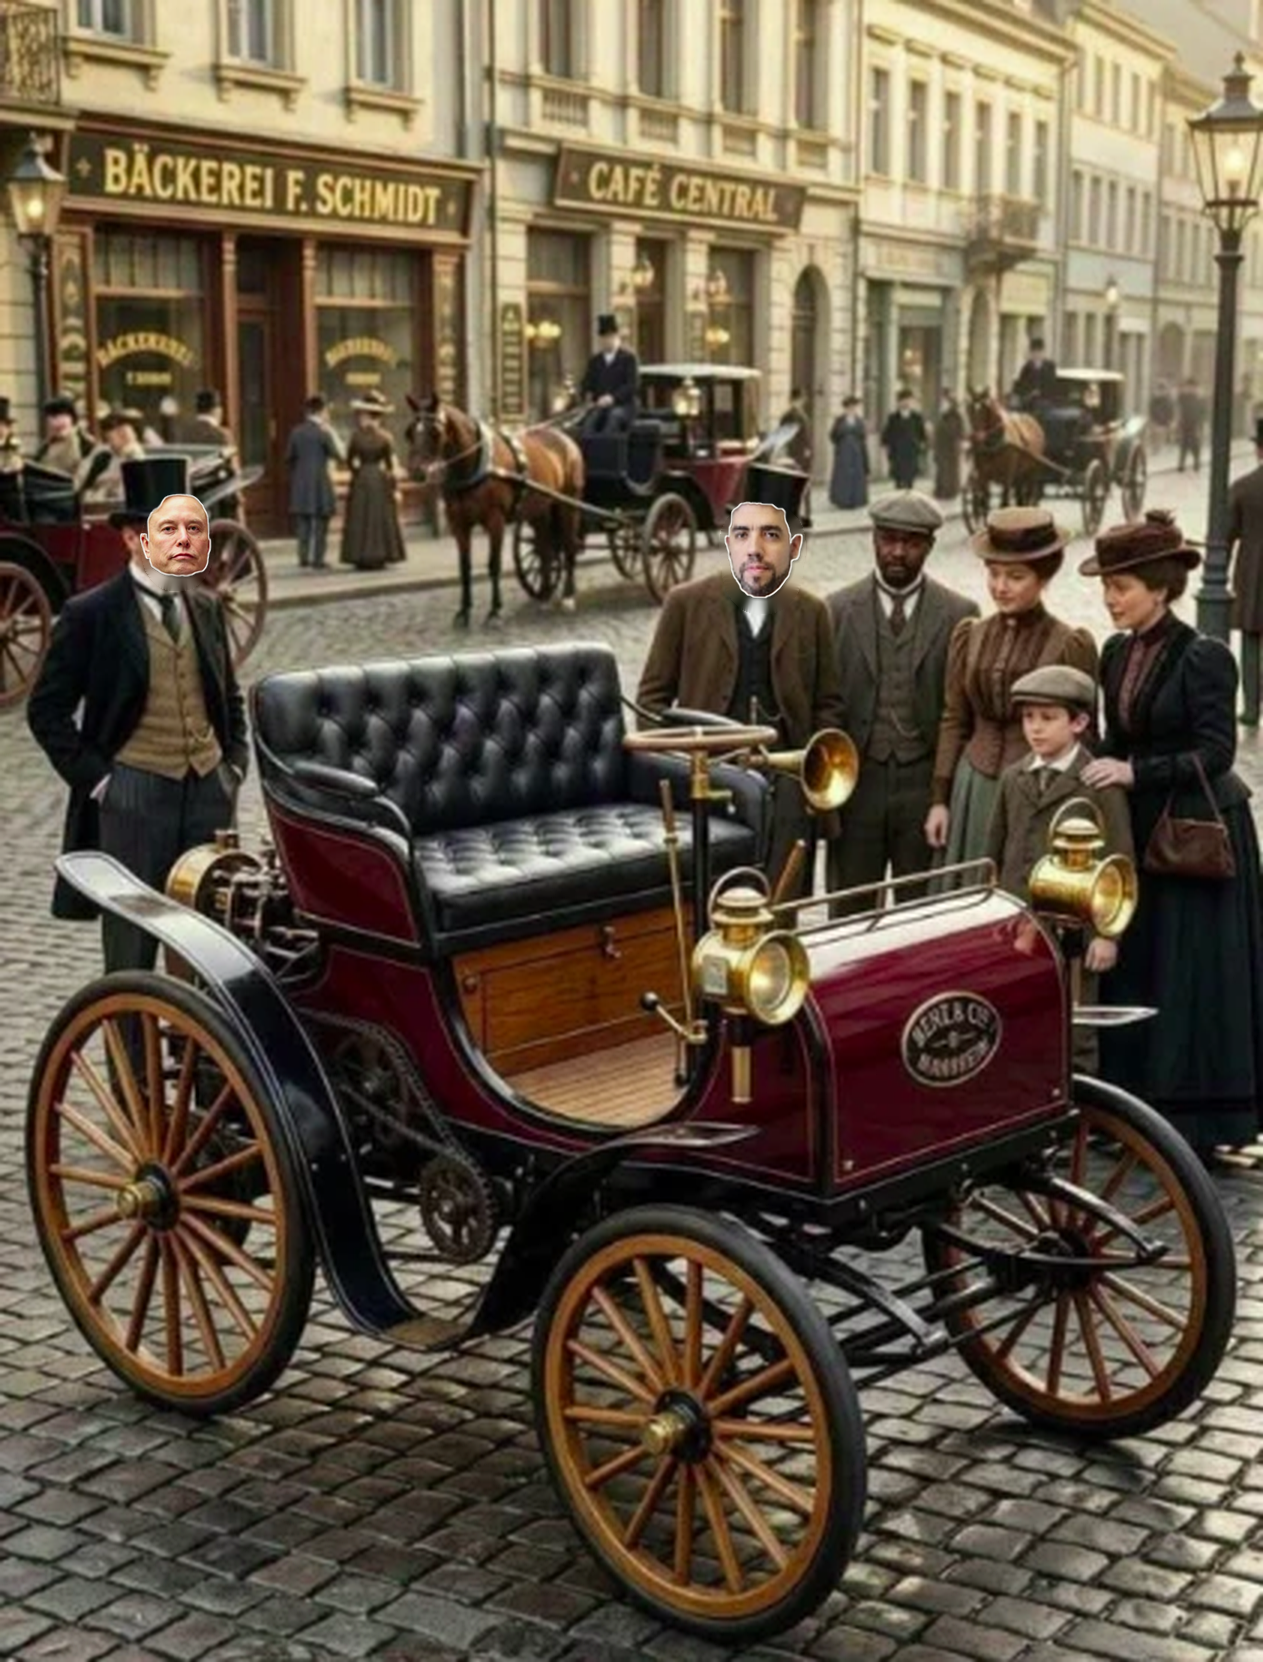
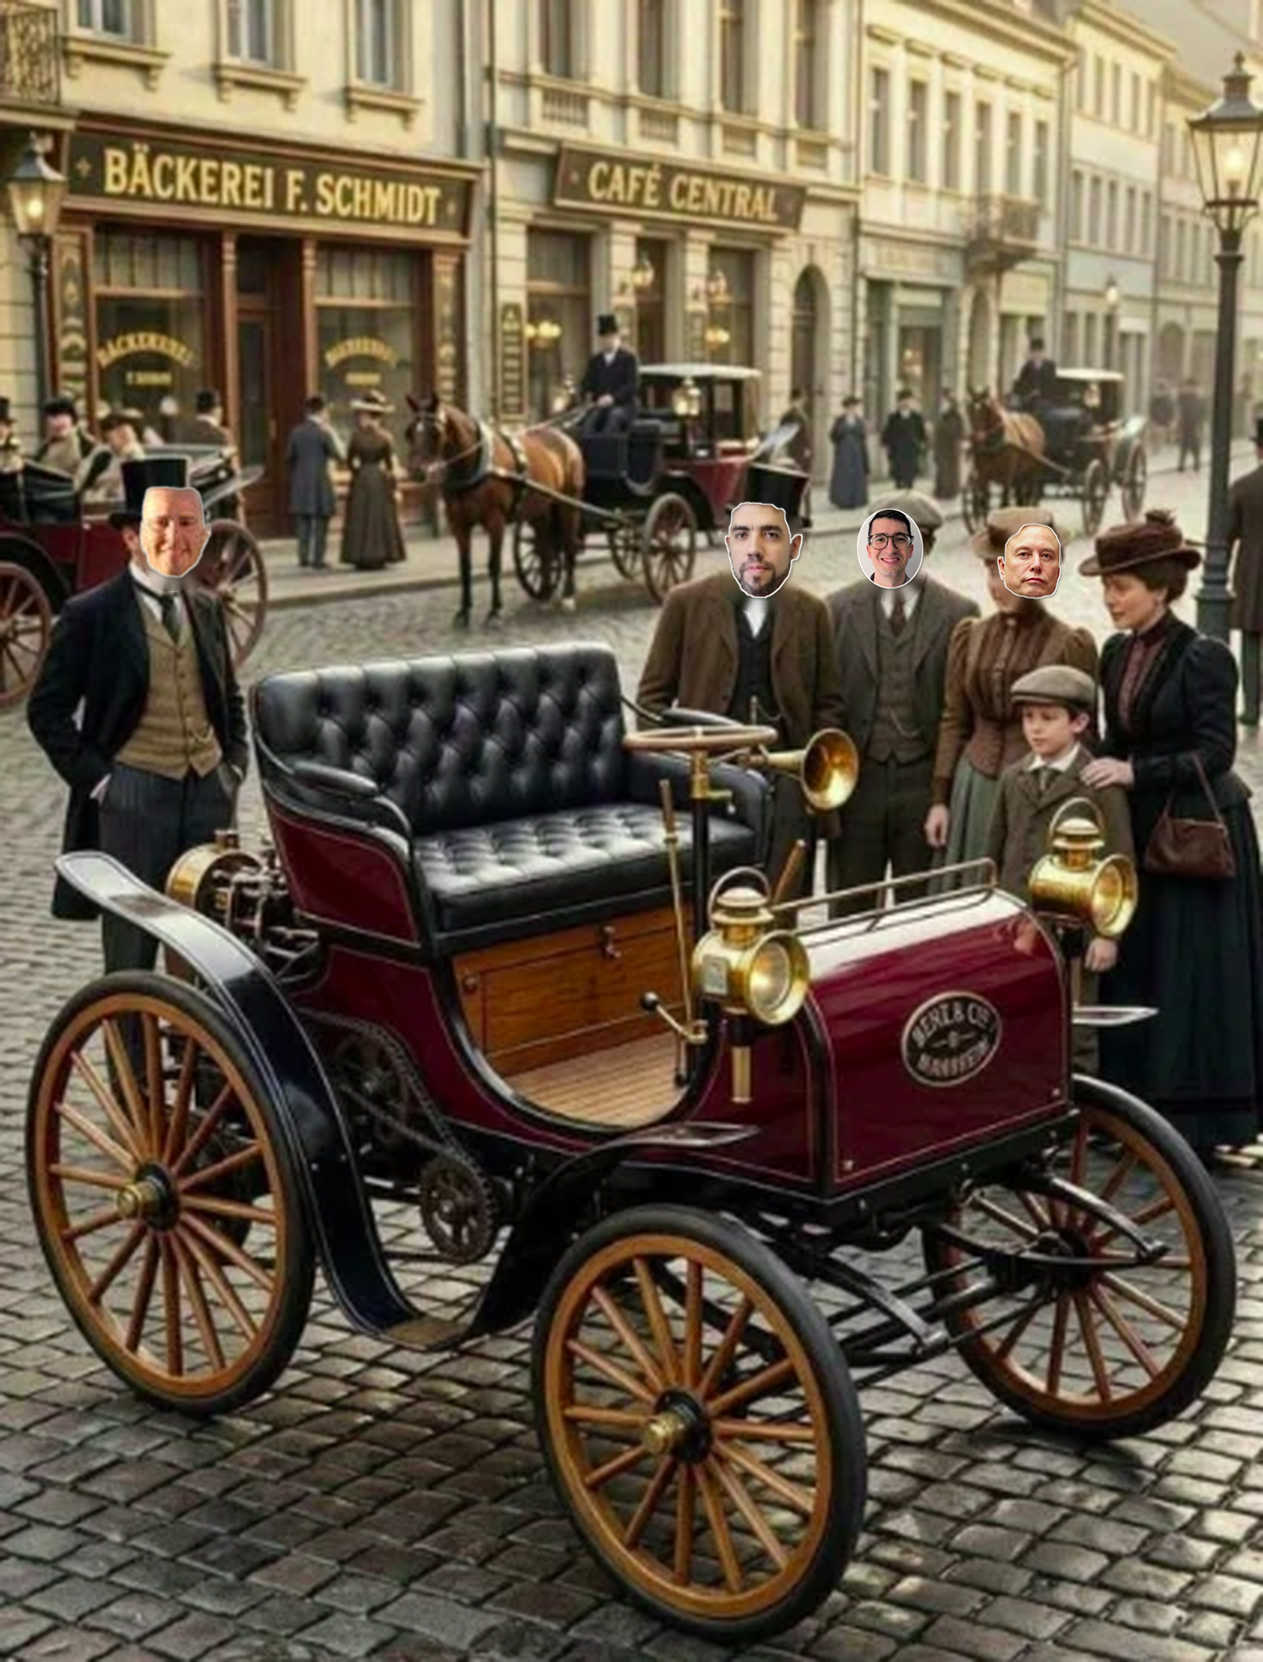
Fotos dos participantes: recortes de Felipe, Fernando e Gabriel; diagnóstico das prévias corrompidas; rua 1908 com 4 cabeças
Claude-Session: https://claude.ai/code/session_01Wft7TTz4Qh6wyonebXWt3u

Changed region(s): [[0.772, 0.3069, 0.8646, 0.3682], [0.0926, 0.2762, 0.1853, 0.3682], [0.6793, 0.3069, 0.7411, 0.3682]]

diff --git a/imagens/pessoas/participantes/ELENCO_VISUAL.md b/imagens/pessoas/participantes/ELENCO_VISUAL.md
@@ -16,3 +16,16 @@
 - Evitar cenas que ridicularizem pessoas; preferir humor relacionado às dores de mobilidade e à adaptação às novas tecnologias.
 - Estas imagens são **prévias compactadas para reconhecimento visual e planejamento**: para montagem e render final, priorizar os arquivos originais enviados na conversa ou novas fotos de resolução superior.
 - **Restam fotos a receber** para completar as 14 participações previstas. Não confundir a pessoa apenas pelo rosto nem inventar imagem ausente.
+
+## Verificação técnica (19/10, sessão de produção)
+| Arquivo | Estado | Recorte de cabeça |
+|---|---|---|
+| `felipe-treistman-preview.jpg` | abre (148 × 148 px) | `recortes/felipe-treistman.png` |
+| `fernando-cattan-preview.jpg` | abre (126 × 170 px, muito borrada) | `recortes/fernando-cattan.png` |
+| `gabriel.png` | abre (81 × 105 px) | `recortes/gabriel.png` |
+| `alessandra-preview.jpg` | **corrompida** (JPEG truncado: SOS antes de SOF) | — |
+| `francislene-preview.jpg` | **corrompida** (comprimento de marcador inválido) | — |
+| `paulo-sergio-preview.jpg` | **corrompida** (SOS antes de SOF) | — |
+| `rogerio-menezes-preview.jpg` | **corrompida** (SOS antes de SOF) | — |
+
+As quatro prévias corrompidas precisam ser reenviadas (de preferência as fotos originais, rosto ≥ 800 px).
